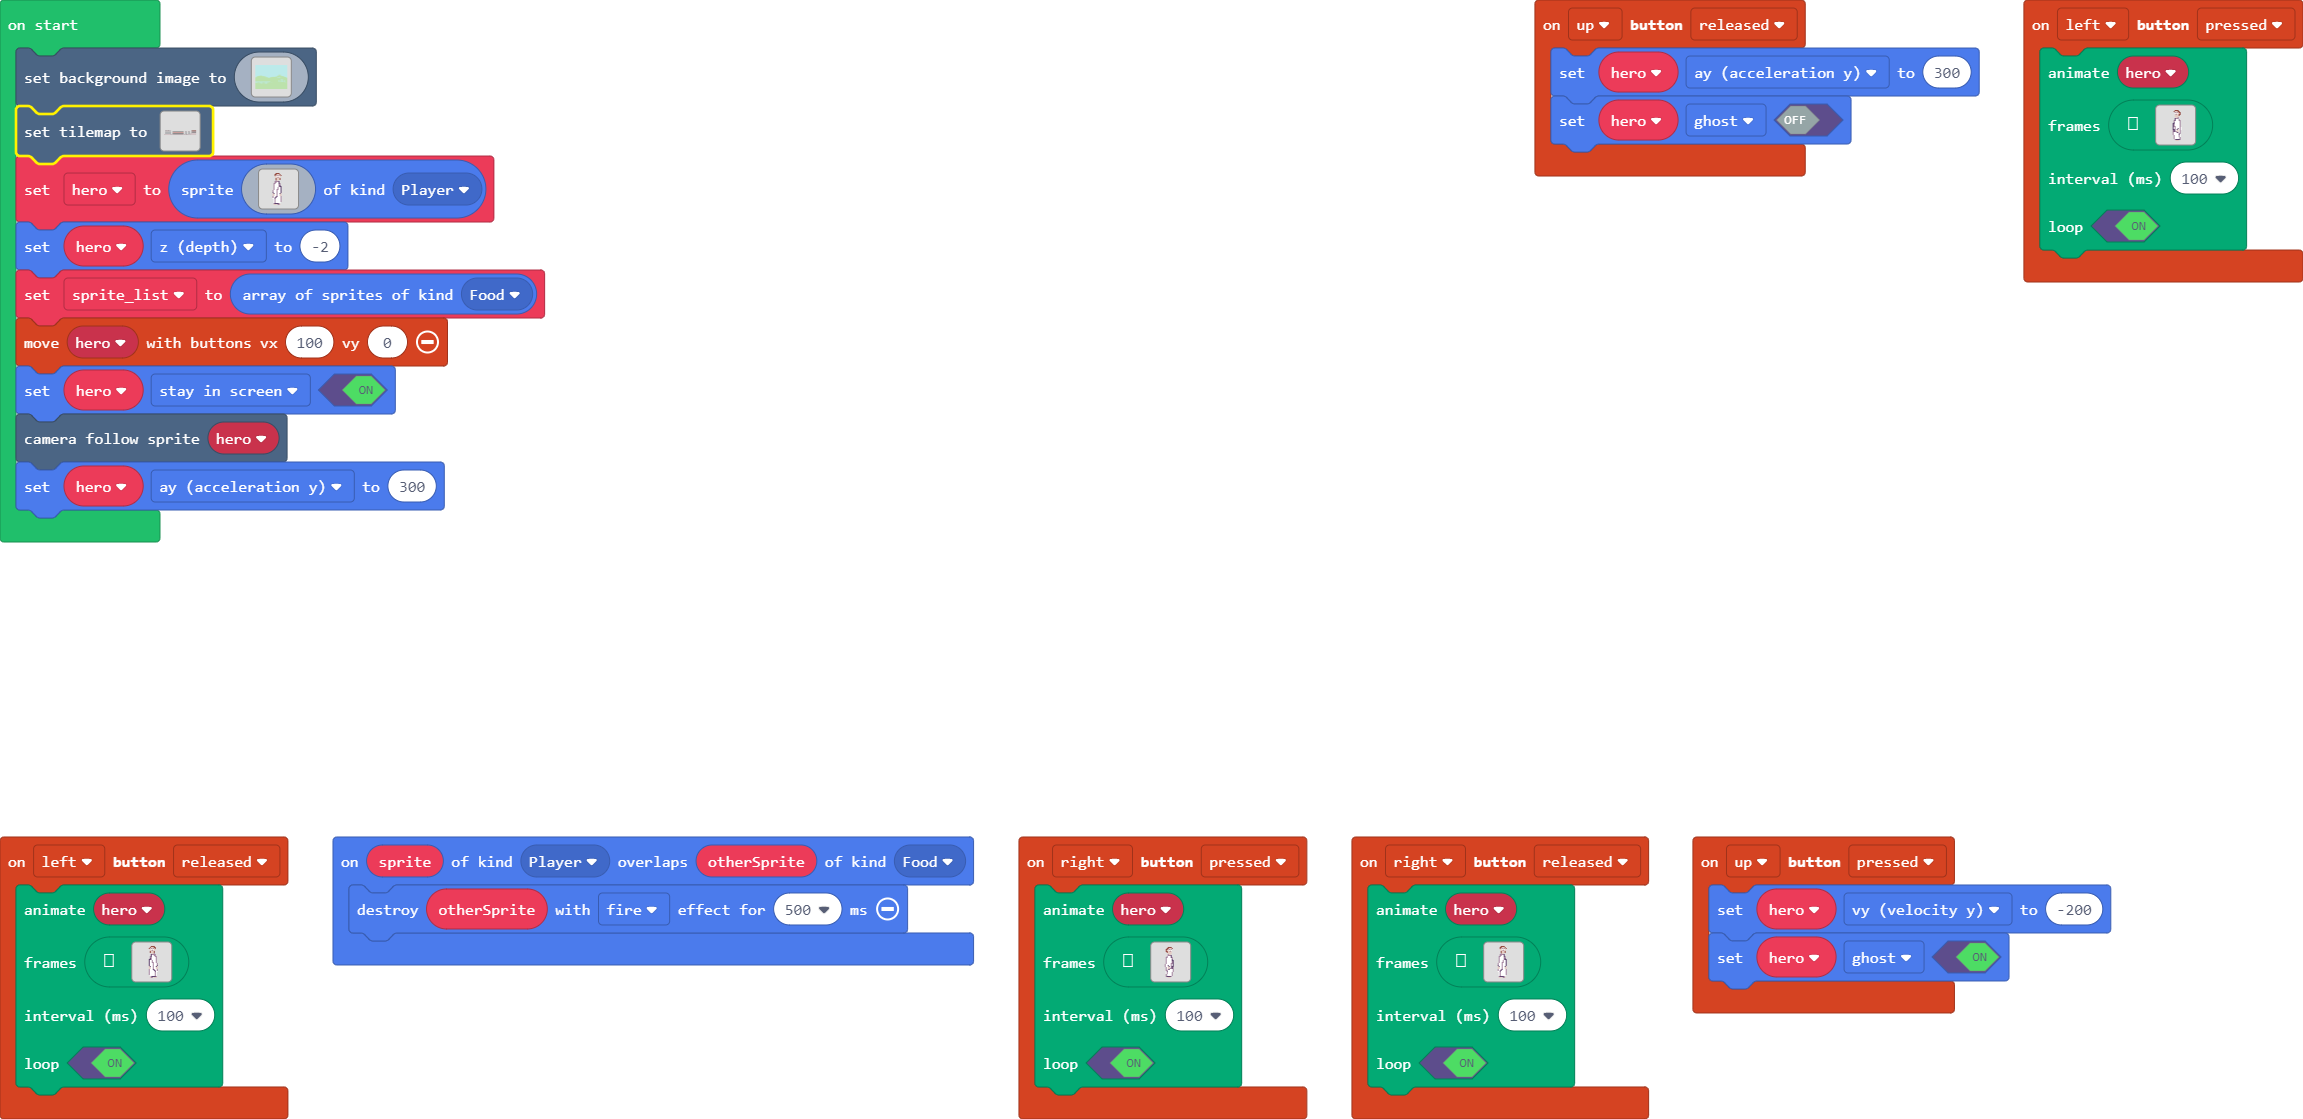
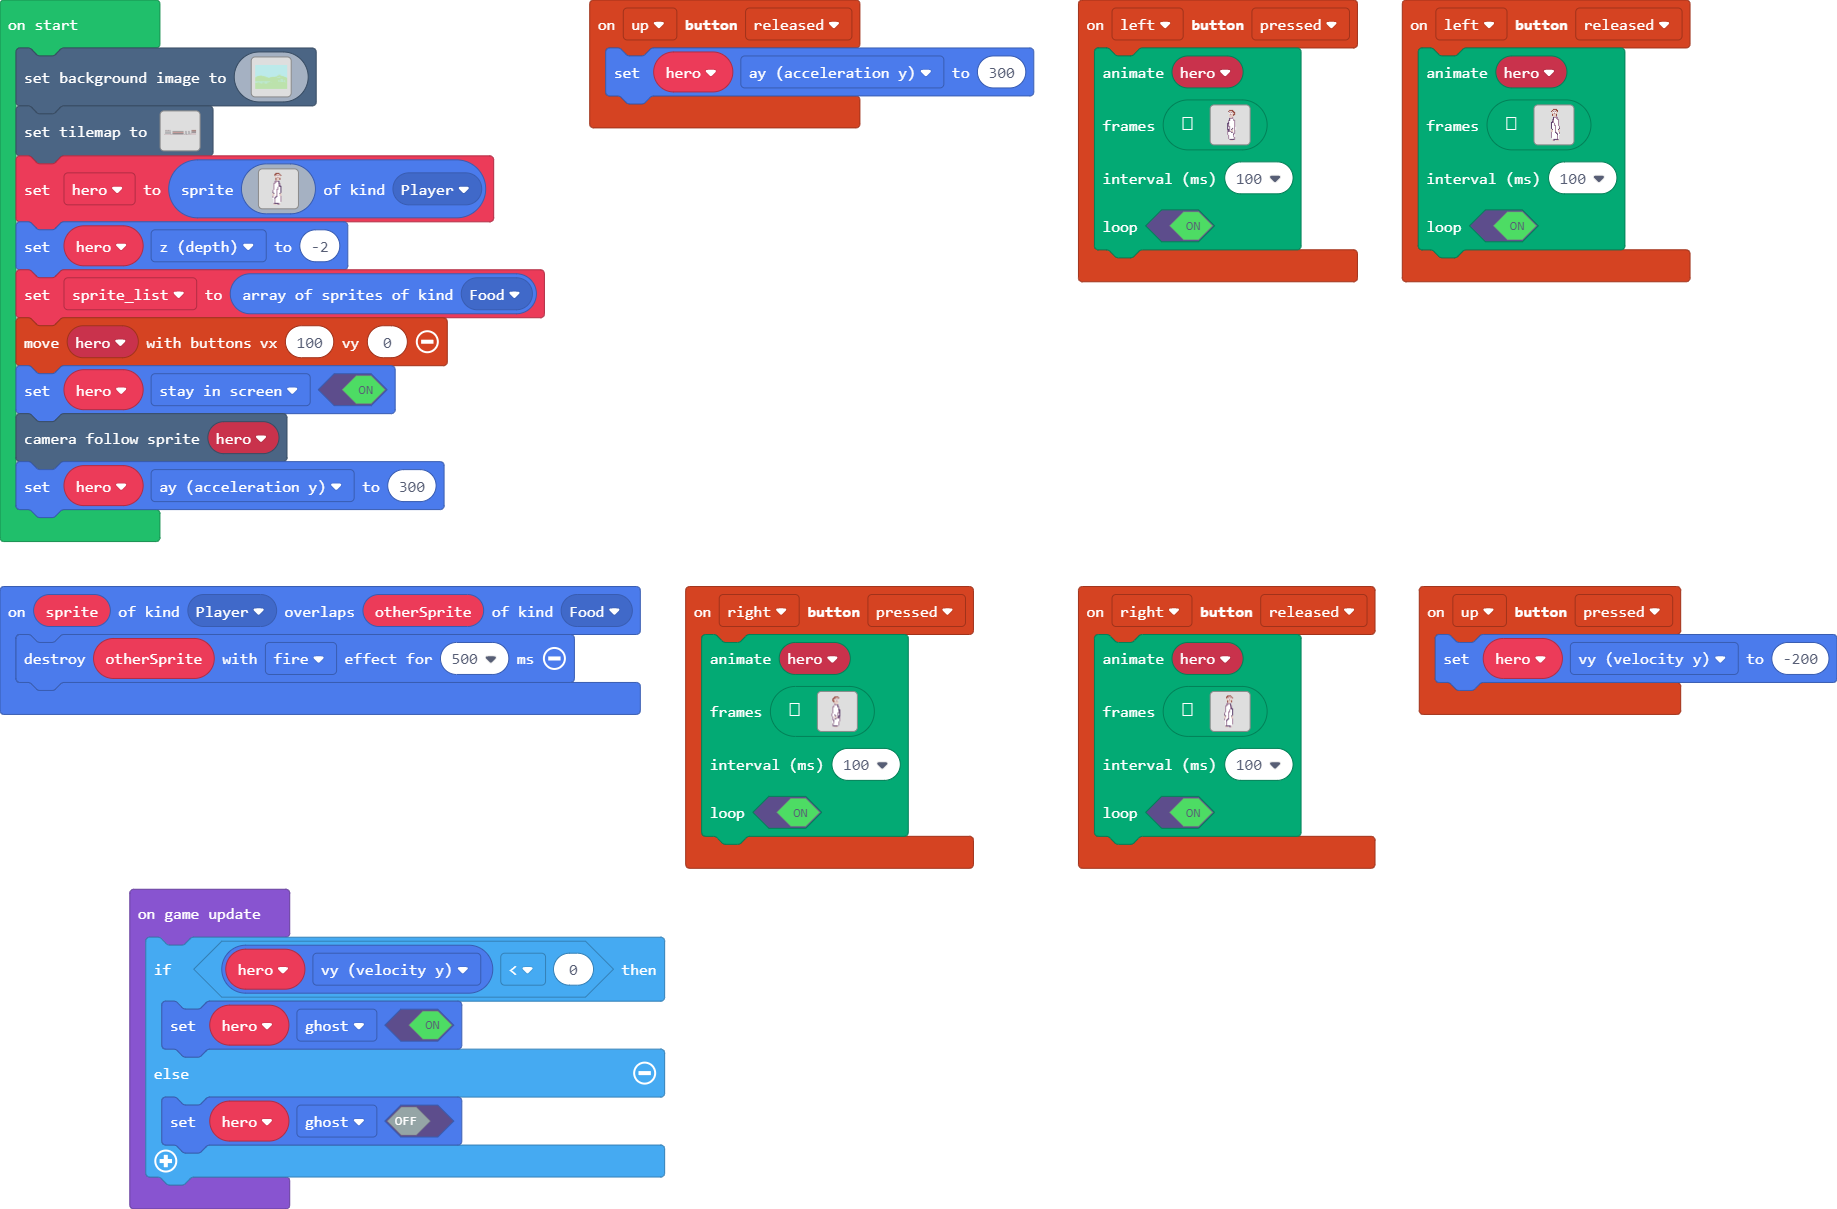
jump through ceilings

diff --git a/main.ts b/main.ts
@@ -762,7 +762,6 @@ c c c b b b b b b b b b b b b b
 }
 controller.up.onEvent(ControllerButtonEvent.Released, function () {
     hero.ay = 300
-    hero.setFlag(SpriteFlag.Ghost, false)
 })
 controller.left.onEvent(ControllerButtonEvent.Pressed, function () {
     animation.runImageAnimation(
@@ -999,7 +998,6 @@ controller.right.onEvent(ControllerButtonEvent.Released, function () {
 })
 controller.up.onEvent(ControllerButtonEvent.Pressed, function () {
     hero.vy = -200
-    hero.setFlag(SpriteFlag.Ghost, true)
 })
 let hero: Sprite = null
 scene.setBackgroundImage(img`
@@ -1187,3 +1185,10 @@ controller.moveSprite(hero, 100, 0)
 hero.setFlag(SpriteFlag.StayInScreen, true)
 scene.cameraFollowSprite(hero)
 hero.ay = 300
+game.onUpdate(function () {
+    if (hero.vy < 0) {
+        hero.setFlag(SpriteFlag.Ghost, true)
+    } else {
+        hero.setFlag(SpriteFlag.Ghost, false)
+    }
+})
